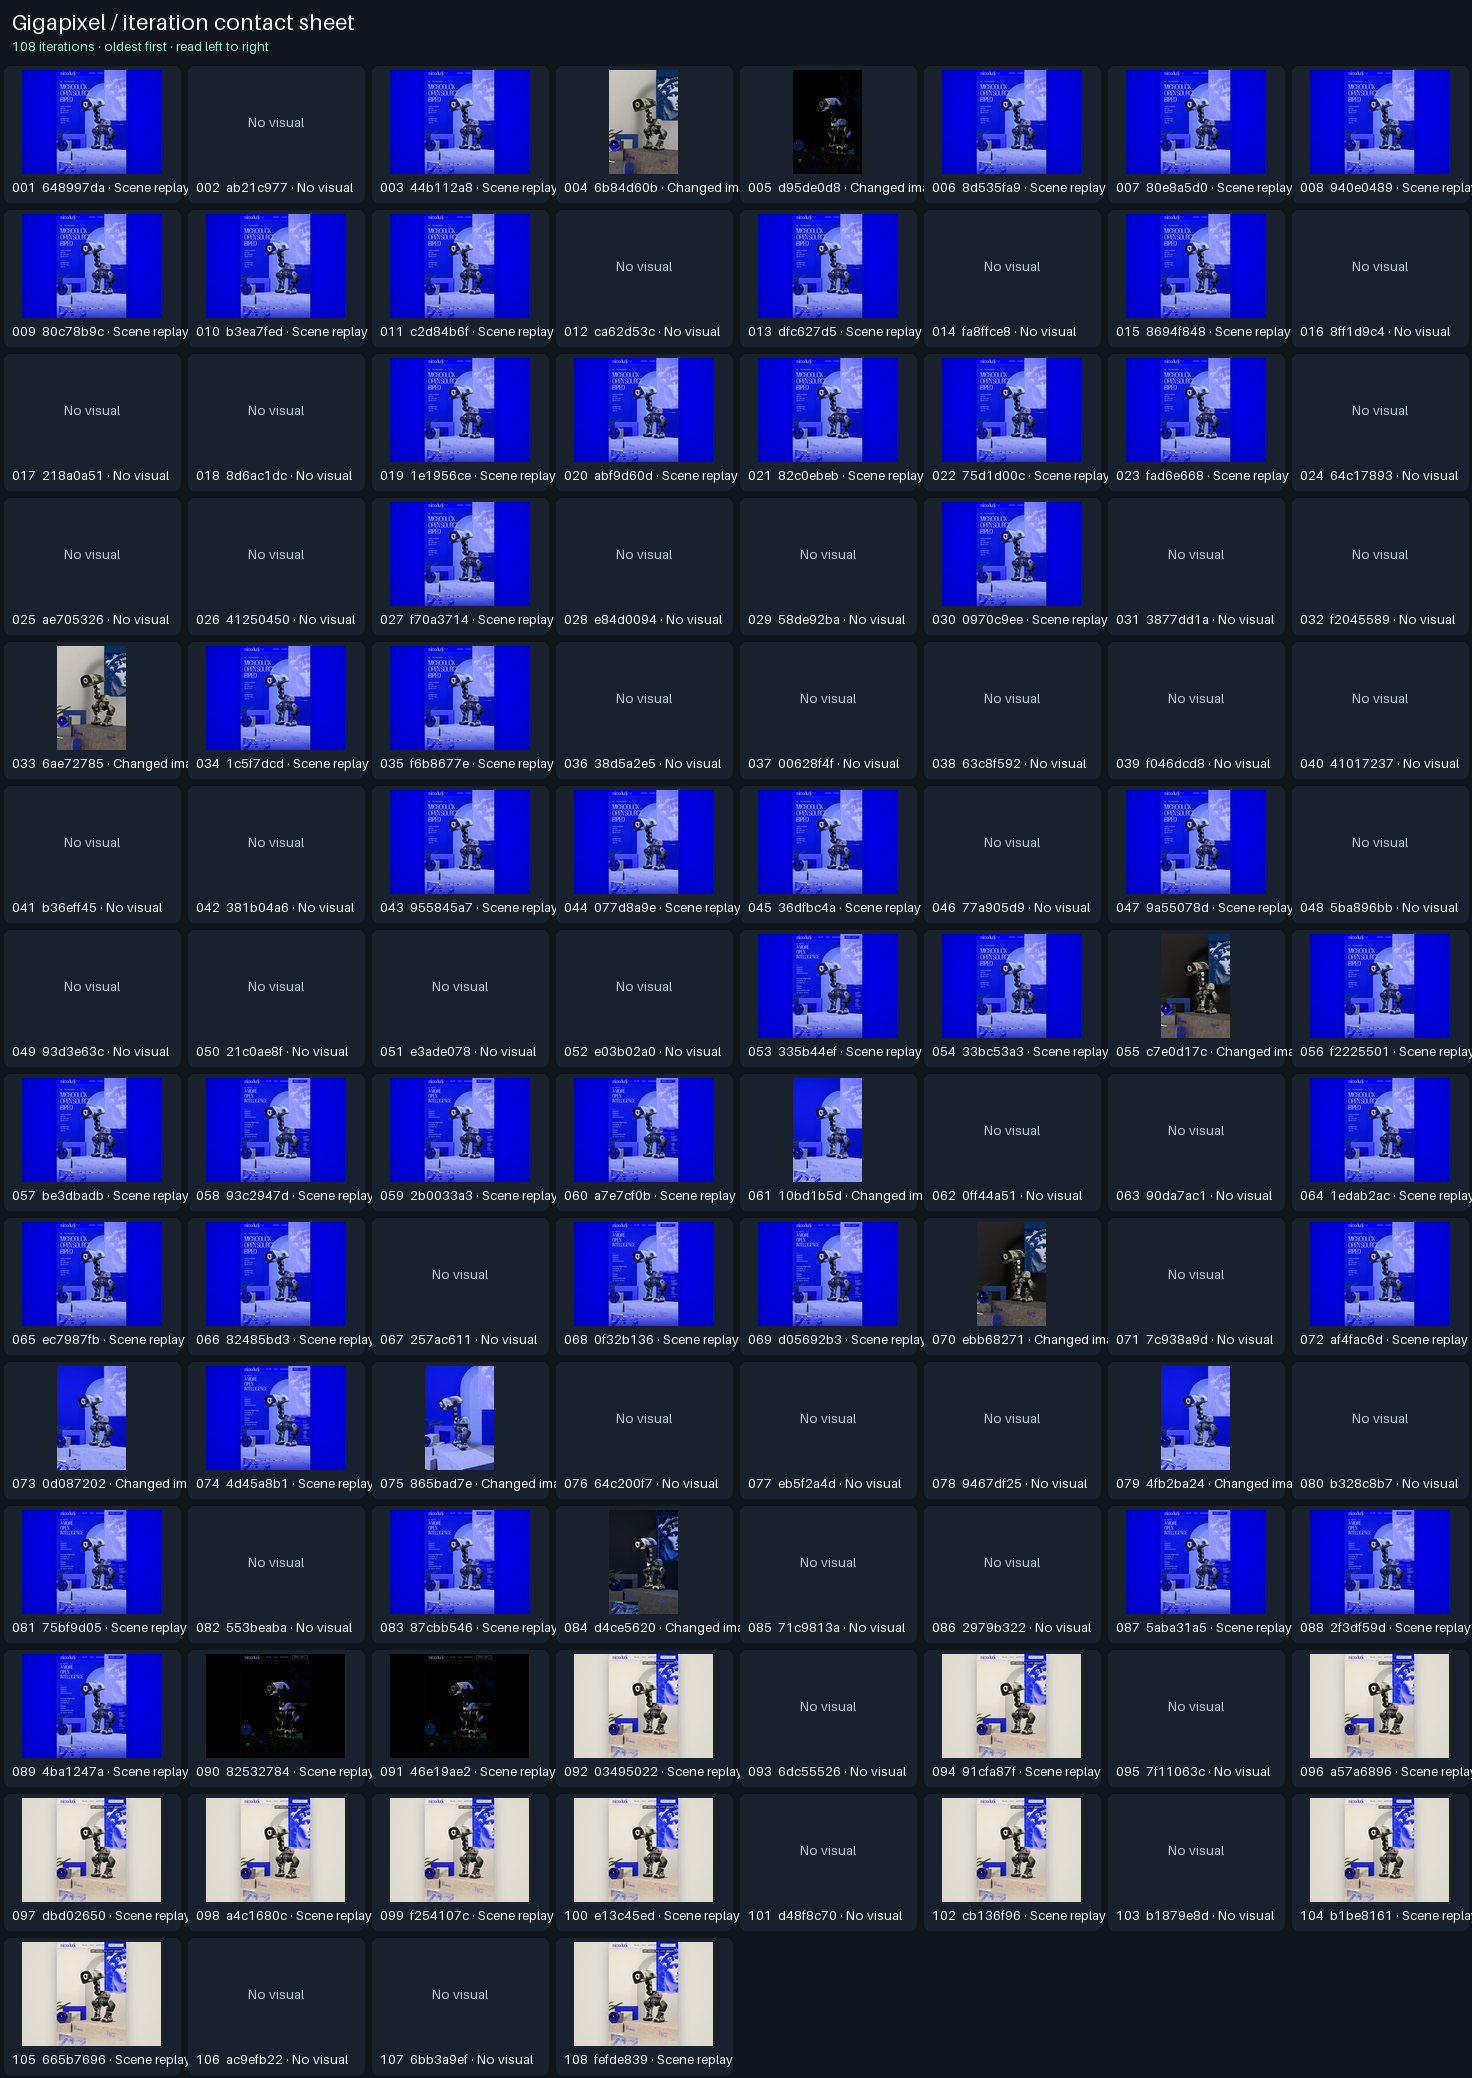
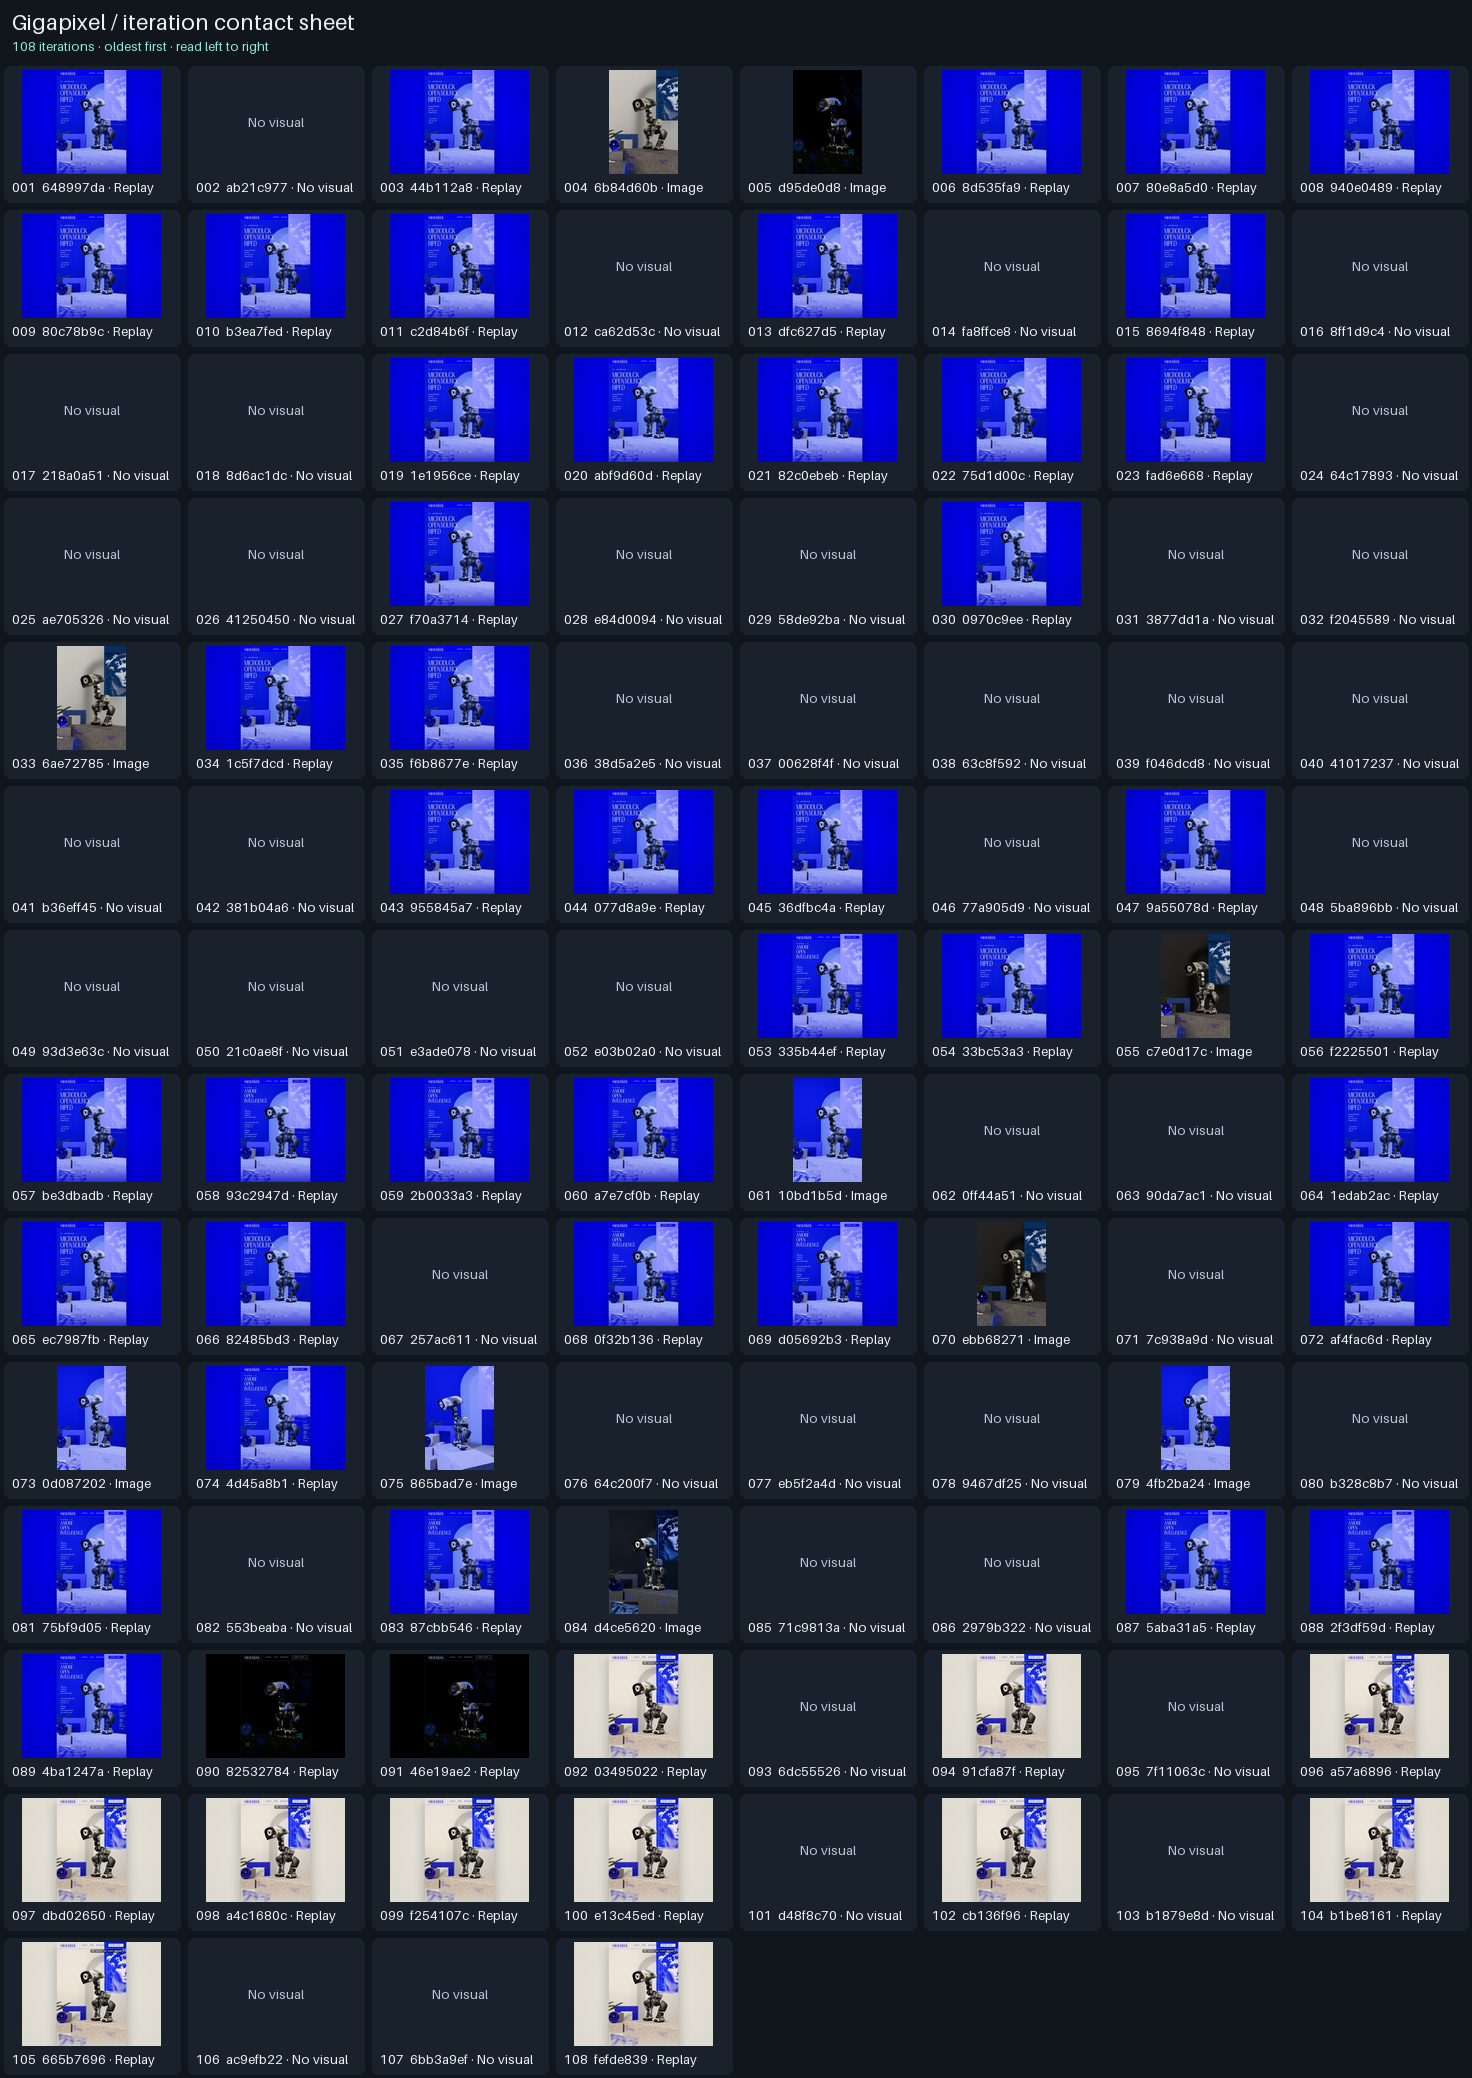
fix(gigapixel): keep contact sheet labels inside their tiles

Changed region(s): [[0.4688, 0.9856, 0.5, 1.0], [0.0938, 0.9856, 0.125, 1.0]]

diff --git a/scripts/gigapixel-timeline/build.py b/scripts/gigapixel-timeline/build.py
@@ -225,6 +225,7 @@ def contact_sheet(tiles, output):
     draw.text((12, 38), f"{len(tiles)} iterations · oldest first · read left to right",
               font=small, fill="#91e6d3")
     for index, (sha, image, kind) in enumerate(tiles):
+        label = {"Changed image": "Image", "Scene replay": "Replay", "No visual": "No visual"}[kind]
         x, y = (index % cols) * width, 62 + (index // cols) * height
         draw.rounded_rectangle((x + 4, y + 4, x + width - 4, y + height - 4),
                                radius=6, fill="#19222c")
@@ -236,7 +237,7 @@ def contact_sheet(tiles, output):
         else:
             draw.text((x + width // 2, y + 60), "No visual", font=small,
                       fill="#b8c7d6", anchor="mm")
-        draw.text((x + 12, y + 117), f"{index + 1:03}  {sha[:8]} · {kind}",
+        draw.text((x + 12, y + 117), f"{index + 1:03}  {sha[:8]} · {label}",
                   font=small, fill="#edf2f7")
     sheet.save(output, optimize=True)
 
